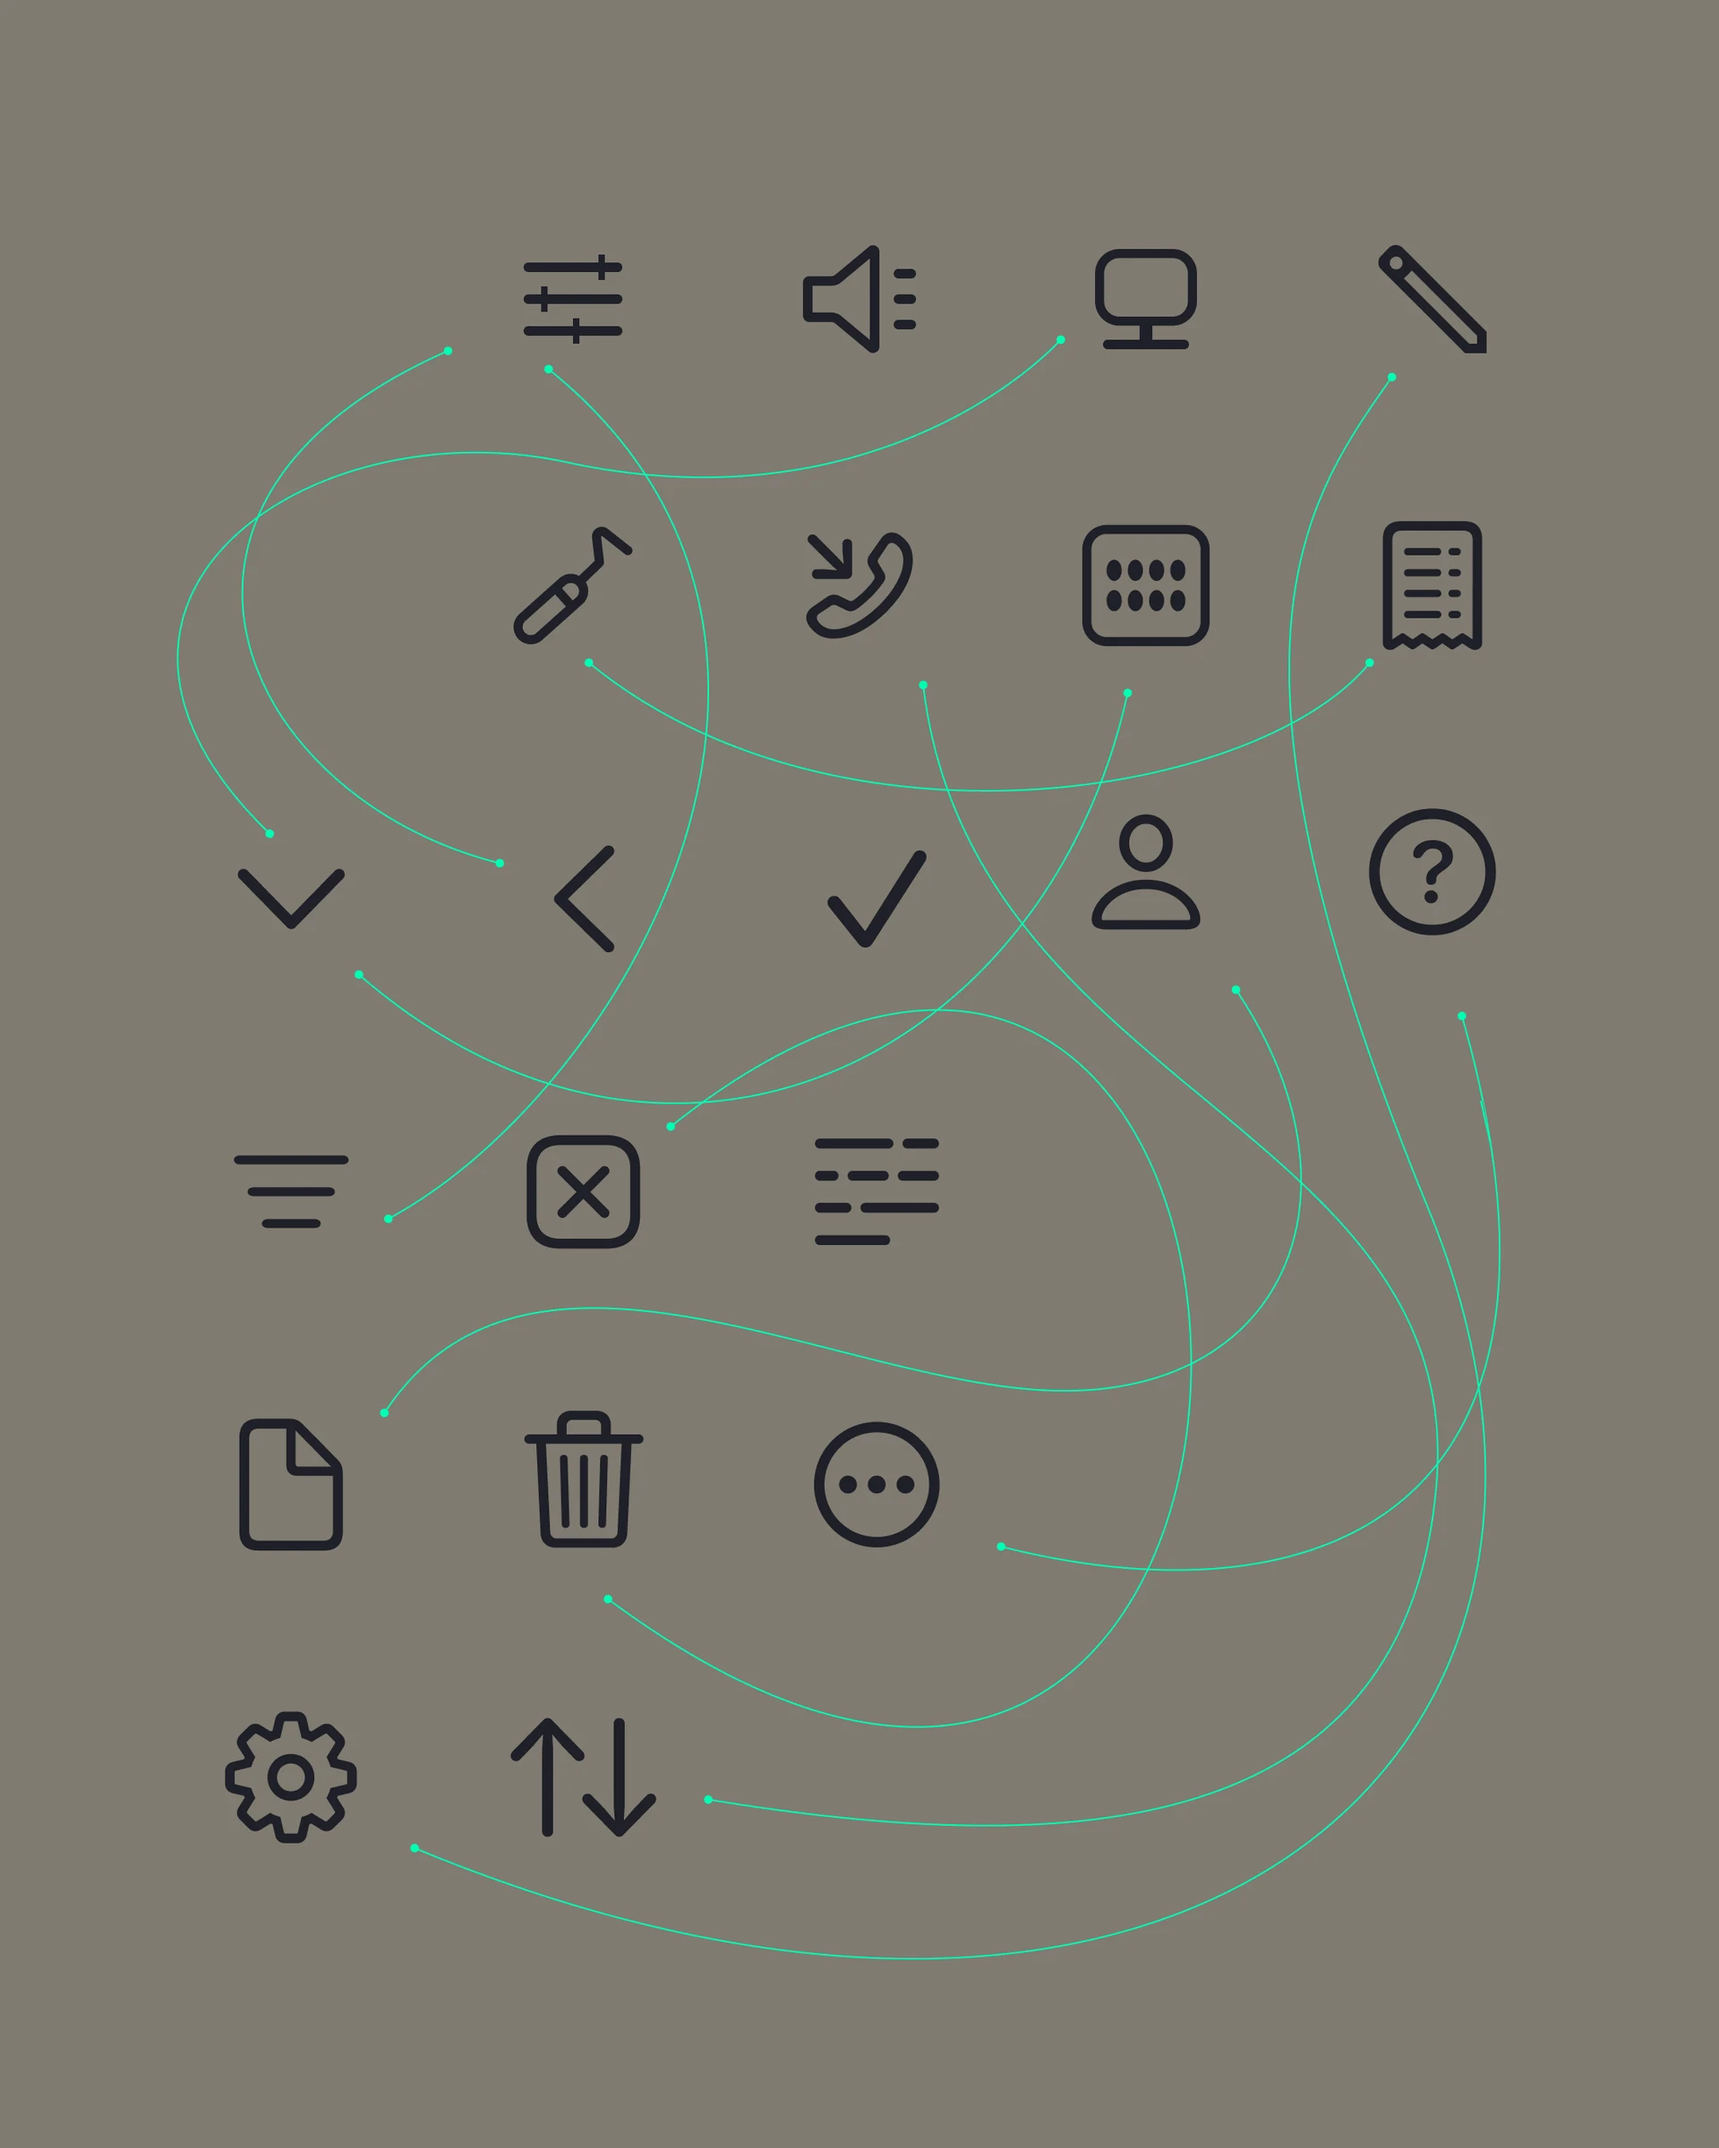
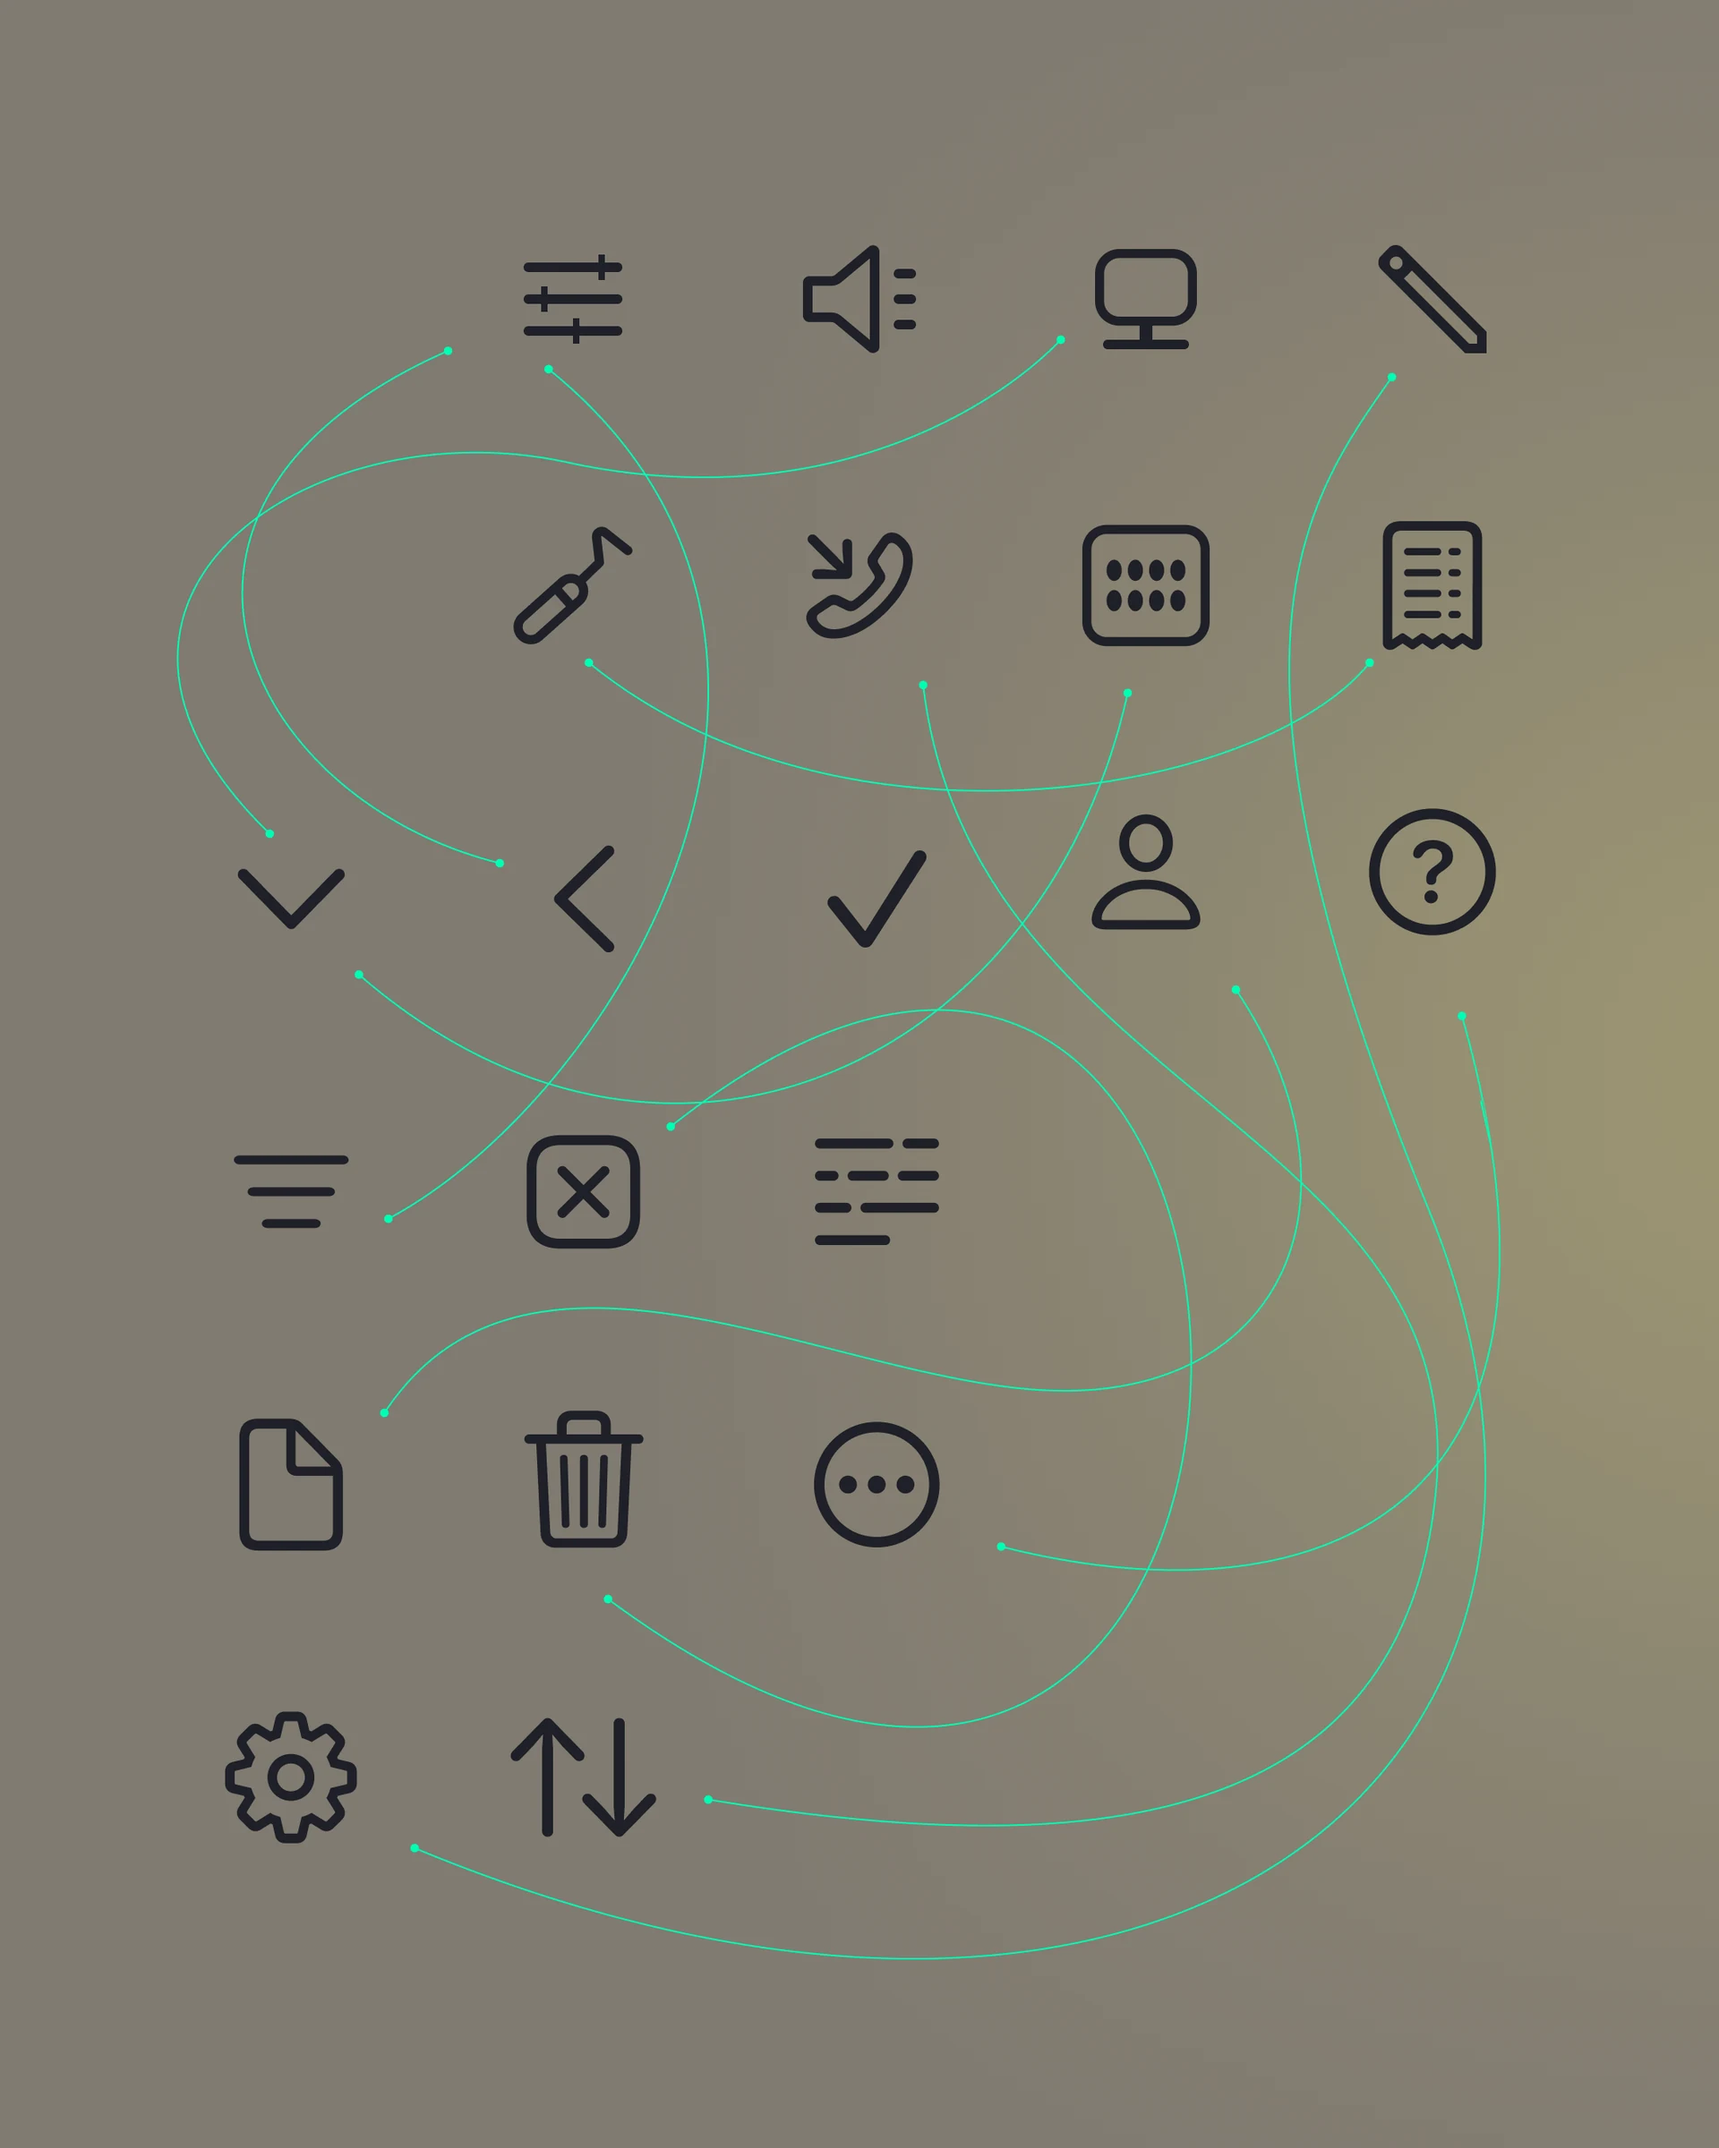
Suite-setup case: updated cover; its card doesn't lighten on hover
Claude-Session: https://claude.ai/code/session_014i5bJiJS2MtanGaxi9N73b

Changed region(s): [[0.9062, 0.4062, 1.0, 0.5938]]

diff --git a/src/styles/global.css b/src/styles/global.css
@@ -340,6 +340,8 @@ body:has(.consent:not([hidden])) .cookie-settings { display: none; }
    the dark text only gains contrast. The cover photo grows a little inside its frame. */
 .case-card { transition: box-shadow 400ms ease; }
 .case-card:hover, .case-card:focus-visible { box-shadow: inset 0 0 0 100vmax rgb(255 255 255 / 0.1); }
+/* The cover sits right on the card's colour, so hovering doesn't lighten it (keyboard focus still does). */
+.case-card--flat:hover:not(:focus-visible) { box-shadow: none; }
 .case-card .visual img { transition: transform 500ms cubic-bezier(0.25, 0.7, 0.25, 1); }
 .case-card:hover .visual img, .case-card:focus-visible .visual img { transform: scale(1.04); }
 @media (prefers-reduced-motion: reduce) {

diff --git a/src/content.config.ts b/src/content.config.ts
@@ -20,6 +20,8 @@ const schema = z.object({
     // (instead of the coral card and the scrolling colours).
     bg: z.string().optional(),
     ink: z.string().optional(),
+    // false: the preview card doesn't lighten on hover (when the cover image is meant to sit right on the card's colour)
+    hoverTint: z.boolean().optional(),
 });
 
 // English cases in content/cases, their Polish versions (same file names) in content/cases-pl.
